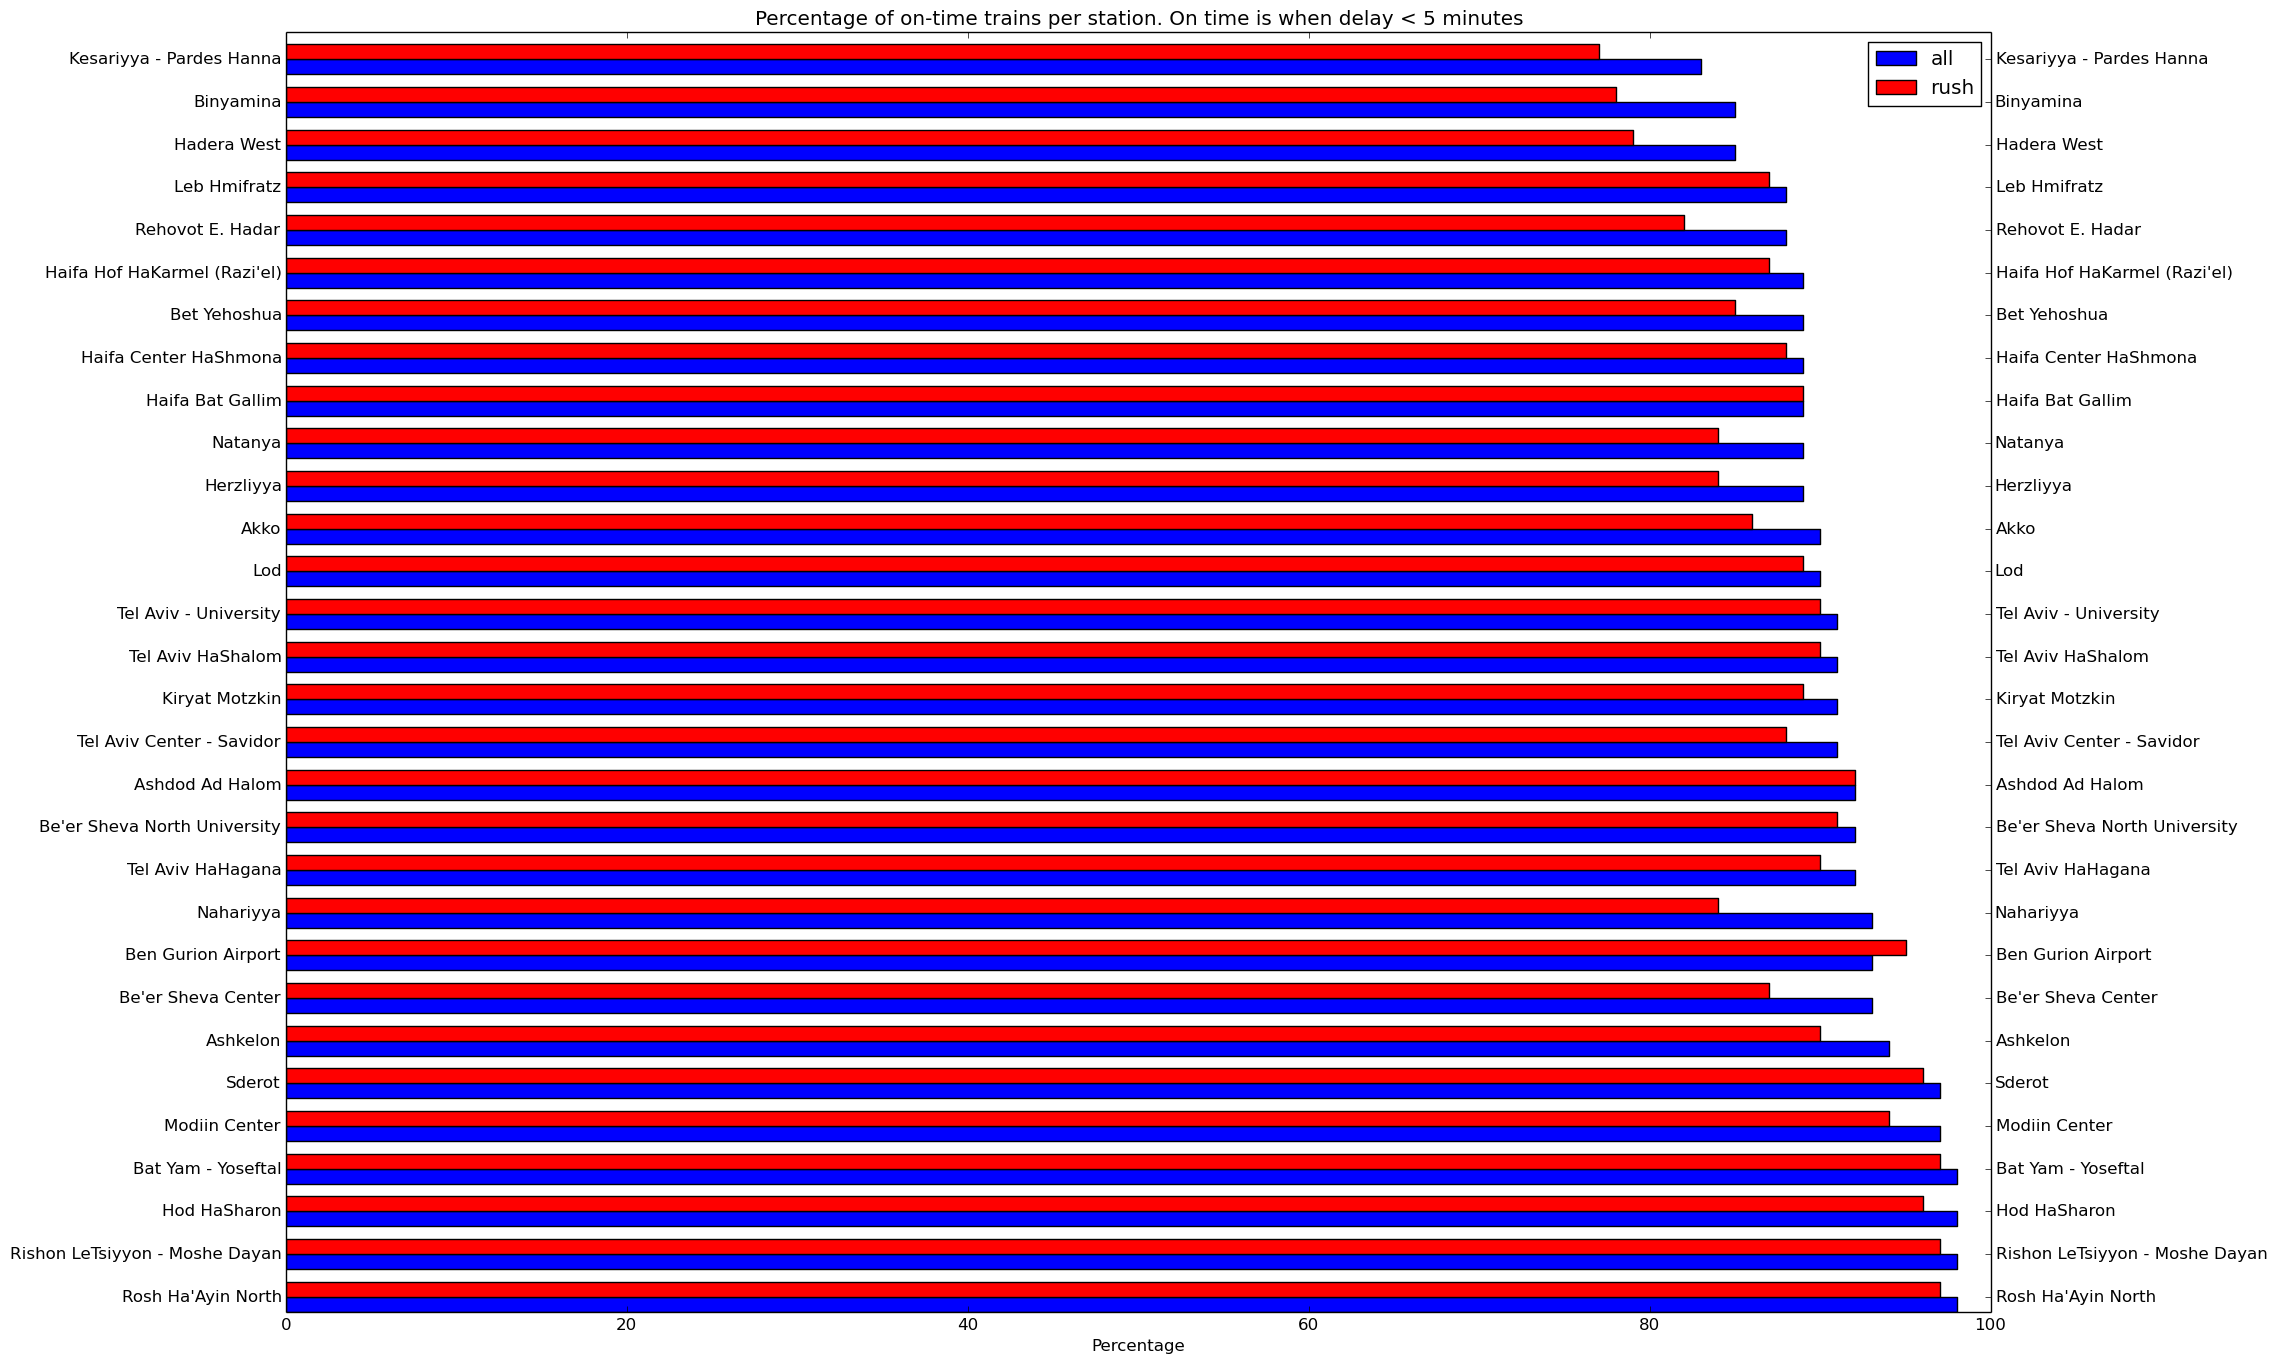
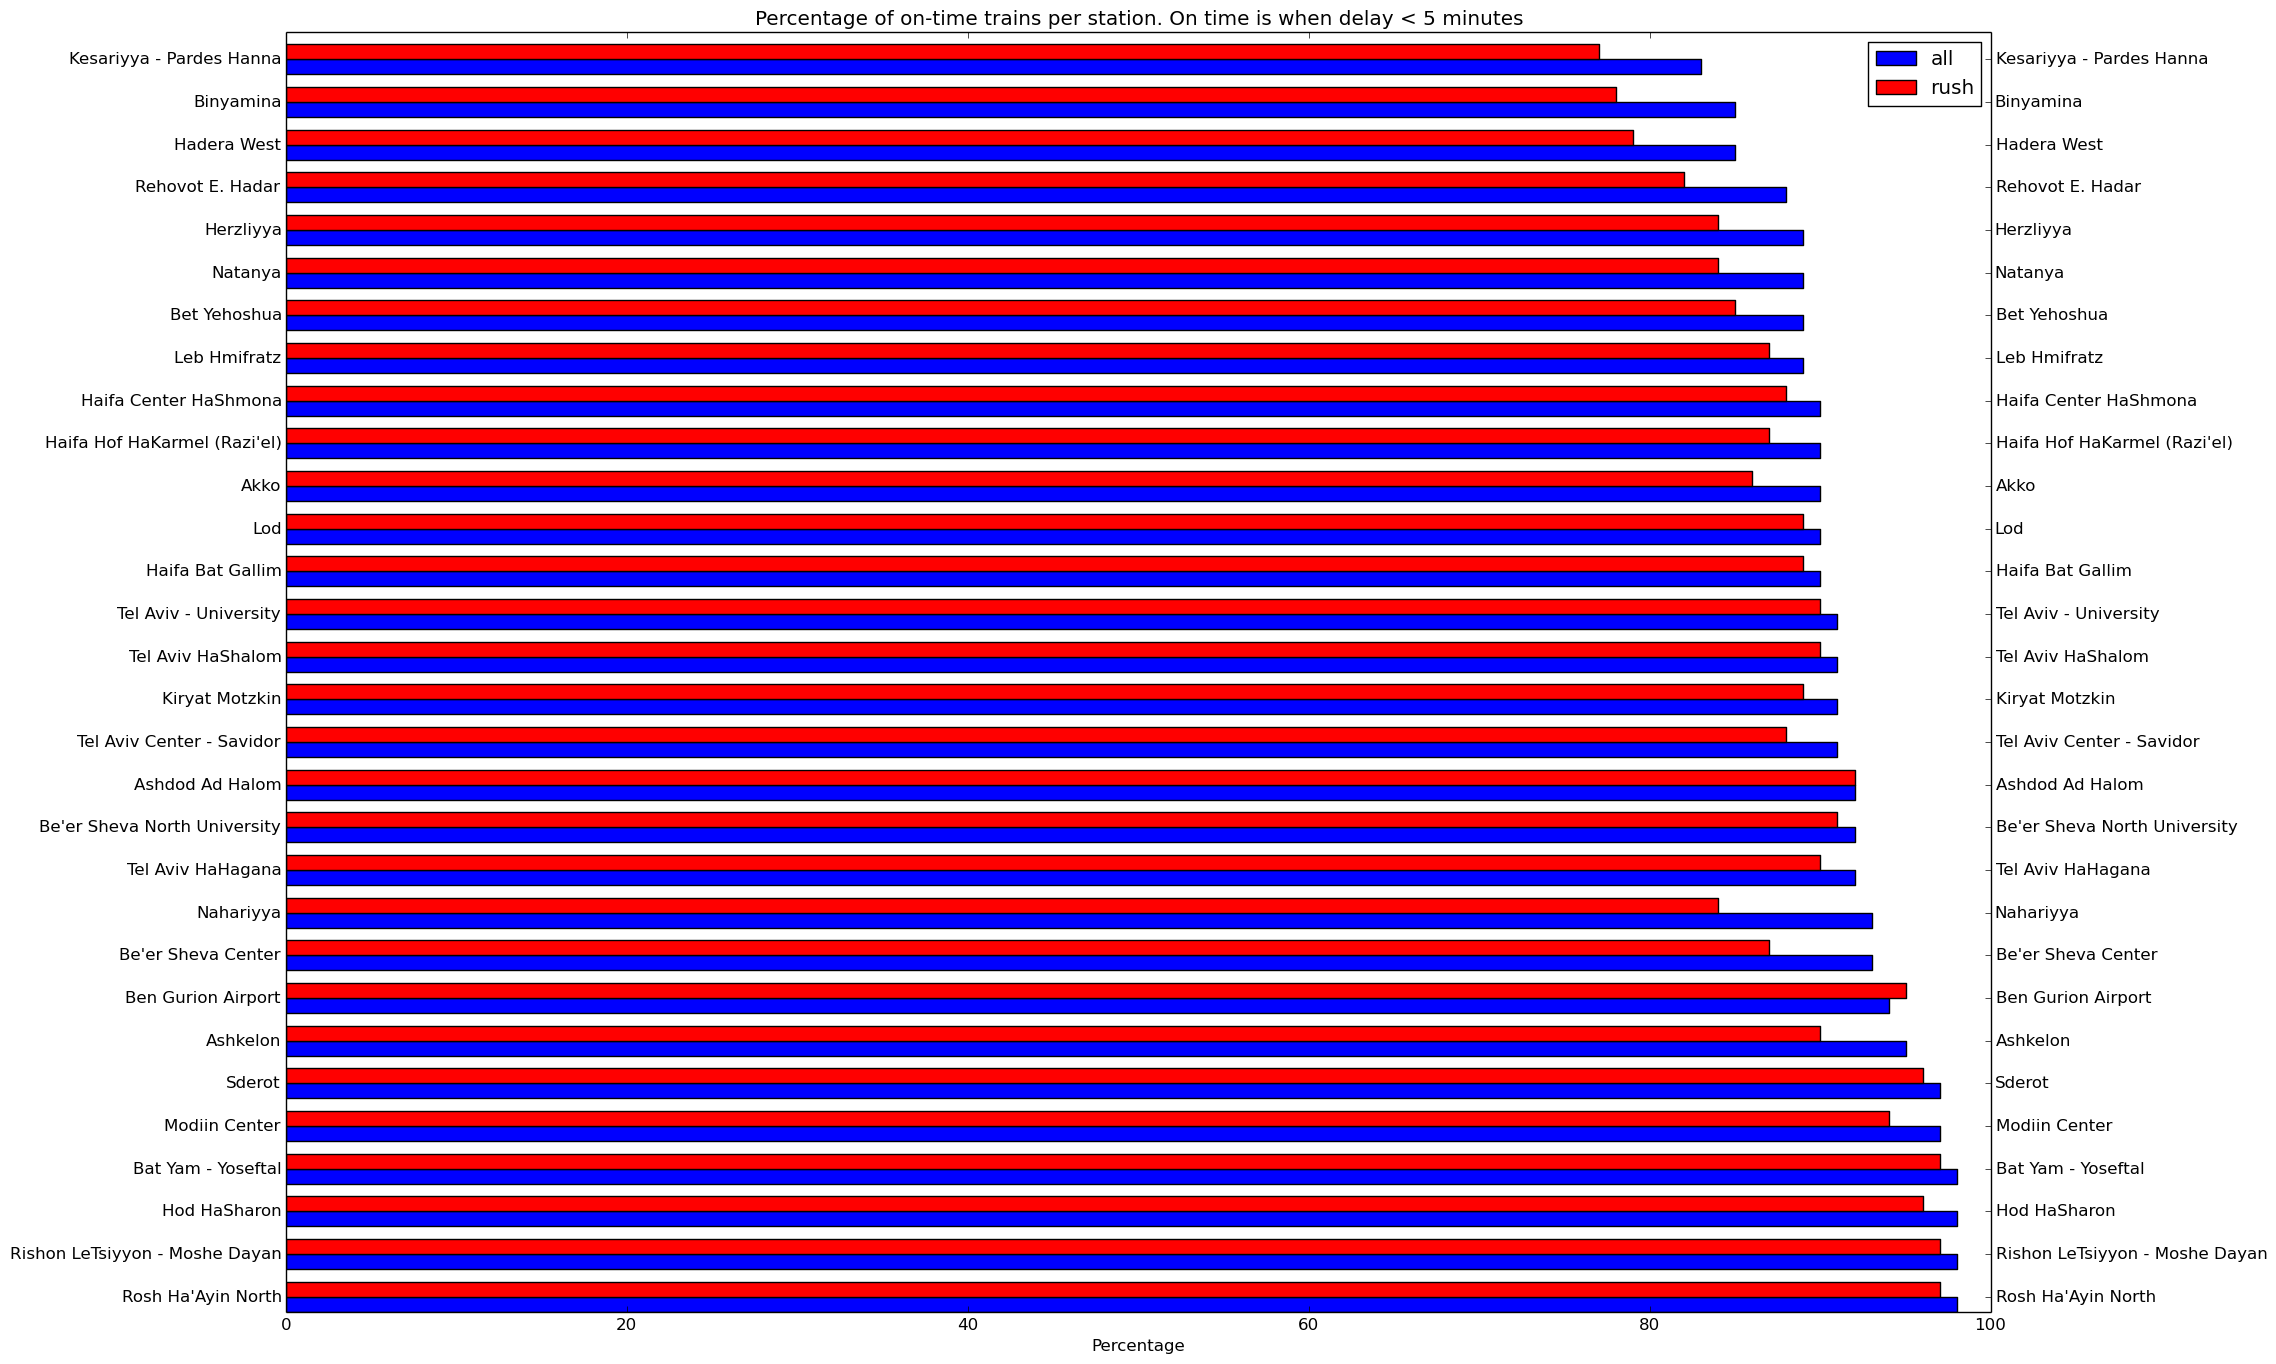
fixing start and end time issues, saving to csv

diff --git a/src/manage.py b/src/manage.py
@@ -1,11 +1,14 @@
+from __future__ import print_function
 from sqlalchemy import create_engine
 from sqlalchemy.orm import sessionmaker
 from sqlalchemy.ext.declarative import declarative_base
+
 import entities
 from entities import Station, TrainStop
 import datetime
 import time
 import os
+
 
 Base = declarative_base()
 ENGINE_STRING = 'postgresql://admin:admin@localhost/opentrain_community'
@@ -98,7 +101,7 @@ def add_opentrain_data(filename):
     if count > max_lines:
       break
     if count % 10000 == 0:
-      print 'Done {}%'.format(int(count/float(row_count)*100))
+      print('Done {}%'.format(int(count/float(row_count)*100)))
       session.commit()
     line_data = line.split('\t')
     date = _parsedate(line_data[0])
@@ -119,21 +122,45 @@ def add_opentrain_data(filename):
                            station_id=station_id)
     session.add(train_stop)
   session.commit()
-  print 'Done all'
+  print('Done all')
 
+
+def get_stop_names():
+  with open('../data/stops_ids_and_names.txt', 'r') as f:
+    lines = f.readlines()
+  stop_names = {}
+  for line in lines:
+    if line.strip():
+      split = line.split(' ', 1)
+      stop_names[int(split[0])] = split[1].strip()
+  return stop_names
+
+def output_all_data_to_csv(session, filename):
+  query = session.query(TrainStop).filter(TrainStop.date == datetime.date(2013, 7, 14))
+  trainstops = query.all()
+  stop_names = get_stop_names()
+  with open(filename, 'w') as f:
+    print("date,train_num,arrive_expected,arrive_actual,arrive_delay,depart_expected,depart_actual,depart_delay,stop_id,stop_name", file=f)
+    for x in trainstops:
+      arrive_delay = (x.arrive_actual - x.arrive_expected).total_seconds()/60
+      if x.arrive_actual.hour == 0 or x.arrive_expected.hour == 0:
+        arrive_delay = 0
+      depart_delay = (x.depart_actual - x.depart_expected).total_seconds()/60
+      if x.depart_actual.hour == 0 or x.depart_expected.hour == 0:
+        depart_delay = 0      
+      line = "{},{},{},{},{},{},{},{},{},{}".format(x.date, x.train_num, 
+                                                x.arrive_expected,#.strftime('%H:%M'), 
+                                                x.arrive_actual,#.strftime('%H:%M'), 
+                                                arrive_delay, 
+                                                x.depart_expected,#.strftime('%H:%M'), 
+                                                x.depart_actual,#.strftime('%H:%M'), 
+                                                depart_delay, x.station_id, stop_names[x.station_id])
+      print(line)
+      print(line, file=f)  
+  
 if __name__ == "__main__":
   session = get_session()
   #create_db()
   #add_opentrain_data(os.path.abspath('../data/01_2013.txt'))
-  query = session.query(TrainStop).filter(TrainStop.date == datetime.date(2013, 1, 1))
-  trainstops = query.all()
-  for x in trainstops:
-    arrive_delay = (x.arrive_actual - x.arrive_expected).total_seconds()/60
-    depart_delay = (x.depart_actual - x.depart_expected).total_seconds()/60
-    print "{},{},{},{},{},{},{},{},{}".format(x.date, x.train_num, 
-                                              x.arrive_expected,#.strftime('%H:%M'), 
-                                              x.arrive_actual,#.strftime('%H:%M'), 
-                                              arrive_delay, 
-                                              x.depart_expected,#.strftime('%H:%M'), 
-                                              x.depart_actual,#.strftime('%H:%M'), 
-                                              depart_delay, x.station_id)
+  output_all_data_to_csv(session, '../output-14-7.csv')
+  

diff --git a/src/experiments.py b/src/experiments.py
@@ -32,16 +32,6 @@ def display_station_delay_bar_graph(vals_dict, stop_names_list, title, figsize):
   plt.savefig('../results/on_time_delay_is_{}_minutes.png'.format(minutes), bbox_inches='tight')  
   #plt.show() 
 
-def get_stop_names():
-  with open('../data/stops_ids_and_names.txt', 'r') as f:
-    lines = f.readlines()
-  stop_names = {}
-  for line in lines:
-    if line.strip():
-      split = line.split(' ', 1)
-      stop_names[int(split[0])] = split[1].strip()
-  return stop_names
-
 def get_stop_passenger_ratio():
   with open('../data/passenger_stats.txt', 'r') as f:
     lines = f.readlines()
@@ -55,8 +45,9 @@ def get_stop_passenger_ratio():
 def get_ontime_percent(trainstops_rush, minutes):
   count = 0  
   for x in trainstops_rush:
-    if x.arrive_actual - x.arrive_expected >= datetime.timedelta(minutes = minutes):
-      count += 1
+    if x.arrive_expected.hour != 0 and x.arrive_actual.hour != 0:
+      if x.arrive_actual - x.arrive_expected >= datetime.timedelta(minutes = minutes):
+        count += 1
   return int(100 - float(count) / len(trainstops_rush) * 100)
 
 def calc_ontime_data(stops, session, minutes, stop_names):
@@ -83,7 +74,7 @@ def calc_passenger_weighted_ontime_percent(stops, stop_passenger_ratio, data):
 
 # exclude stops - only from bar graph
 def get_ontime_percentage_report_for_given_minutes(minutes, session, exclude_stops=None):
-  stop_names = get_stop_names()
+  stop_names = manage.get_stop_names()
   stop_passenger_ratio = get_stop_passenger_ratio()  
   stops = stop_names.keys()
 
@@ -113,7 +104,7 @@ if __name__ == "__main__":
   # excluding stops with less than 1% of passengers:
   exclude_stops = [4170, 8700, 7000, 6300, 4100, 4250, 5410, 4690, 9100, 9000, 700, 4660, 5150, 300, 6700, 5010, 5300, 1300, 8550, 4640, 4800, 2500, 6500, 7500]
   
-  for minutes in [1,5]:
+  for minutes in [1, 4, 5]:
     get_ontime_percentage_report_for_given_minutes(minutes, session, exclude_stops)
   
   
